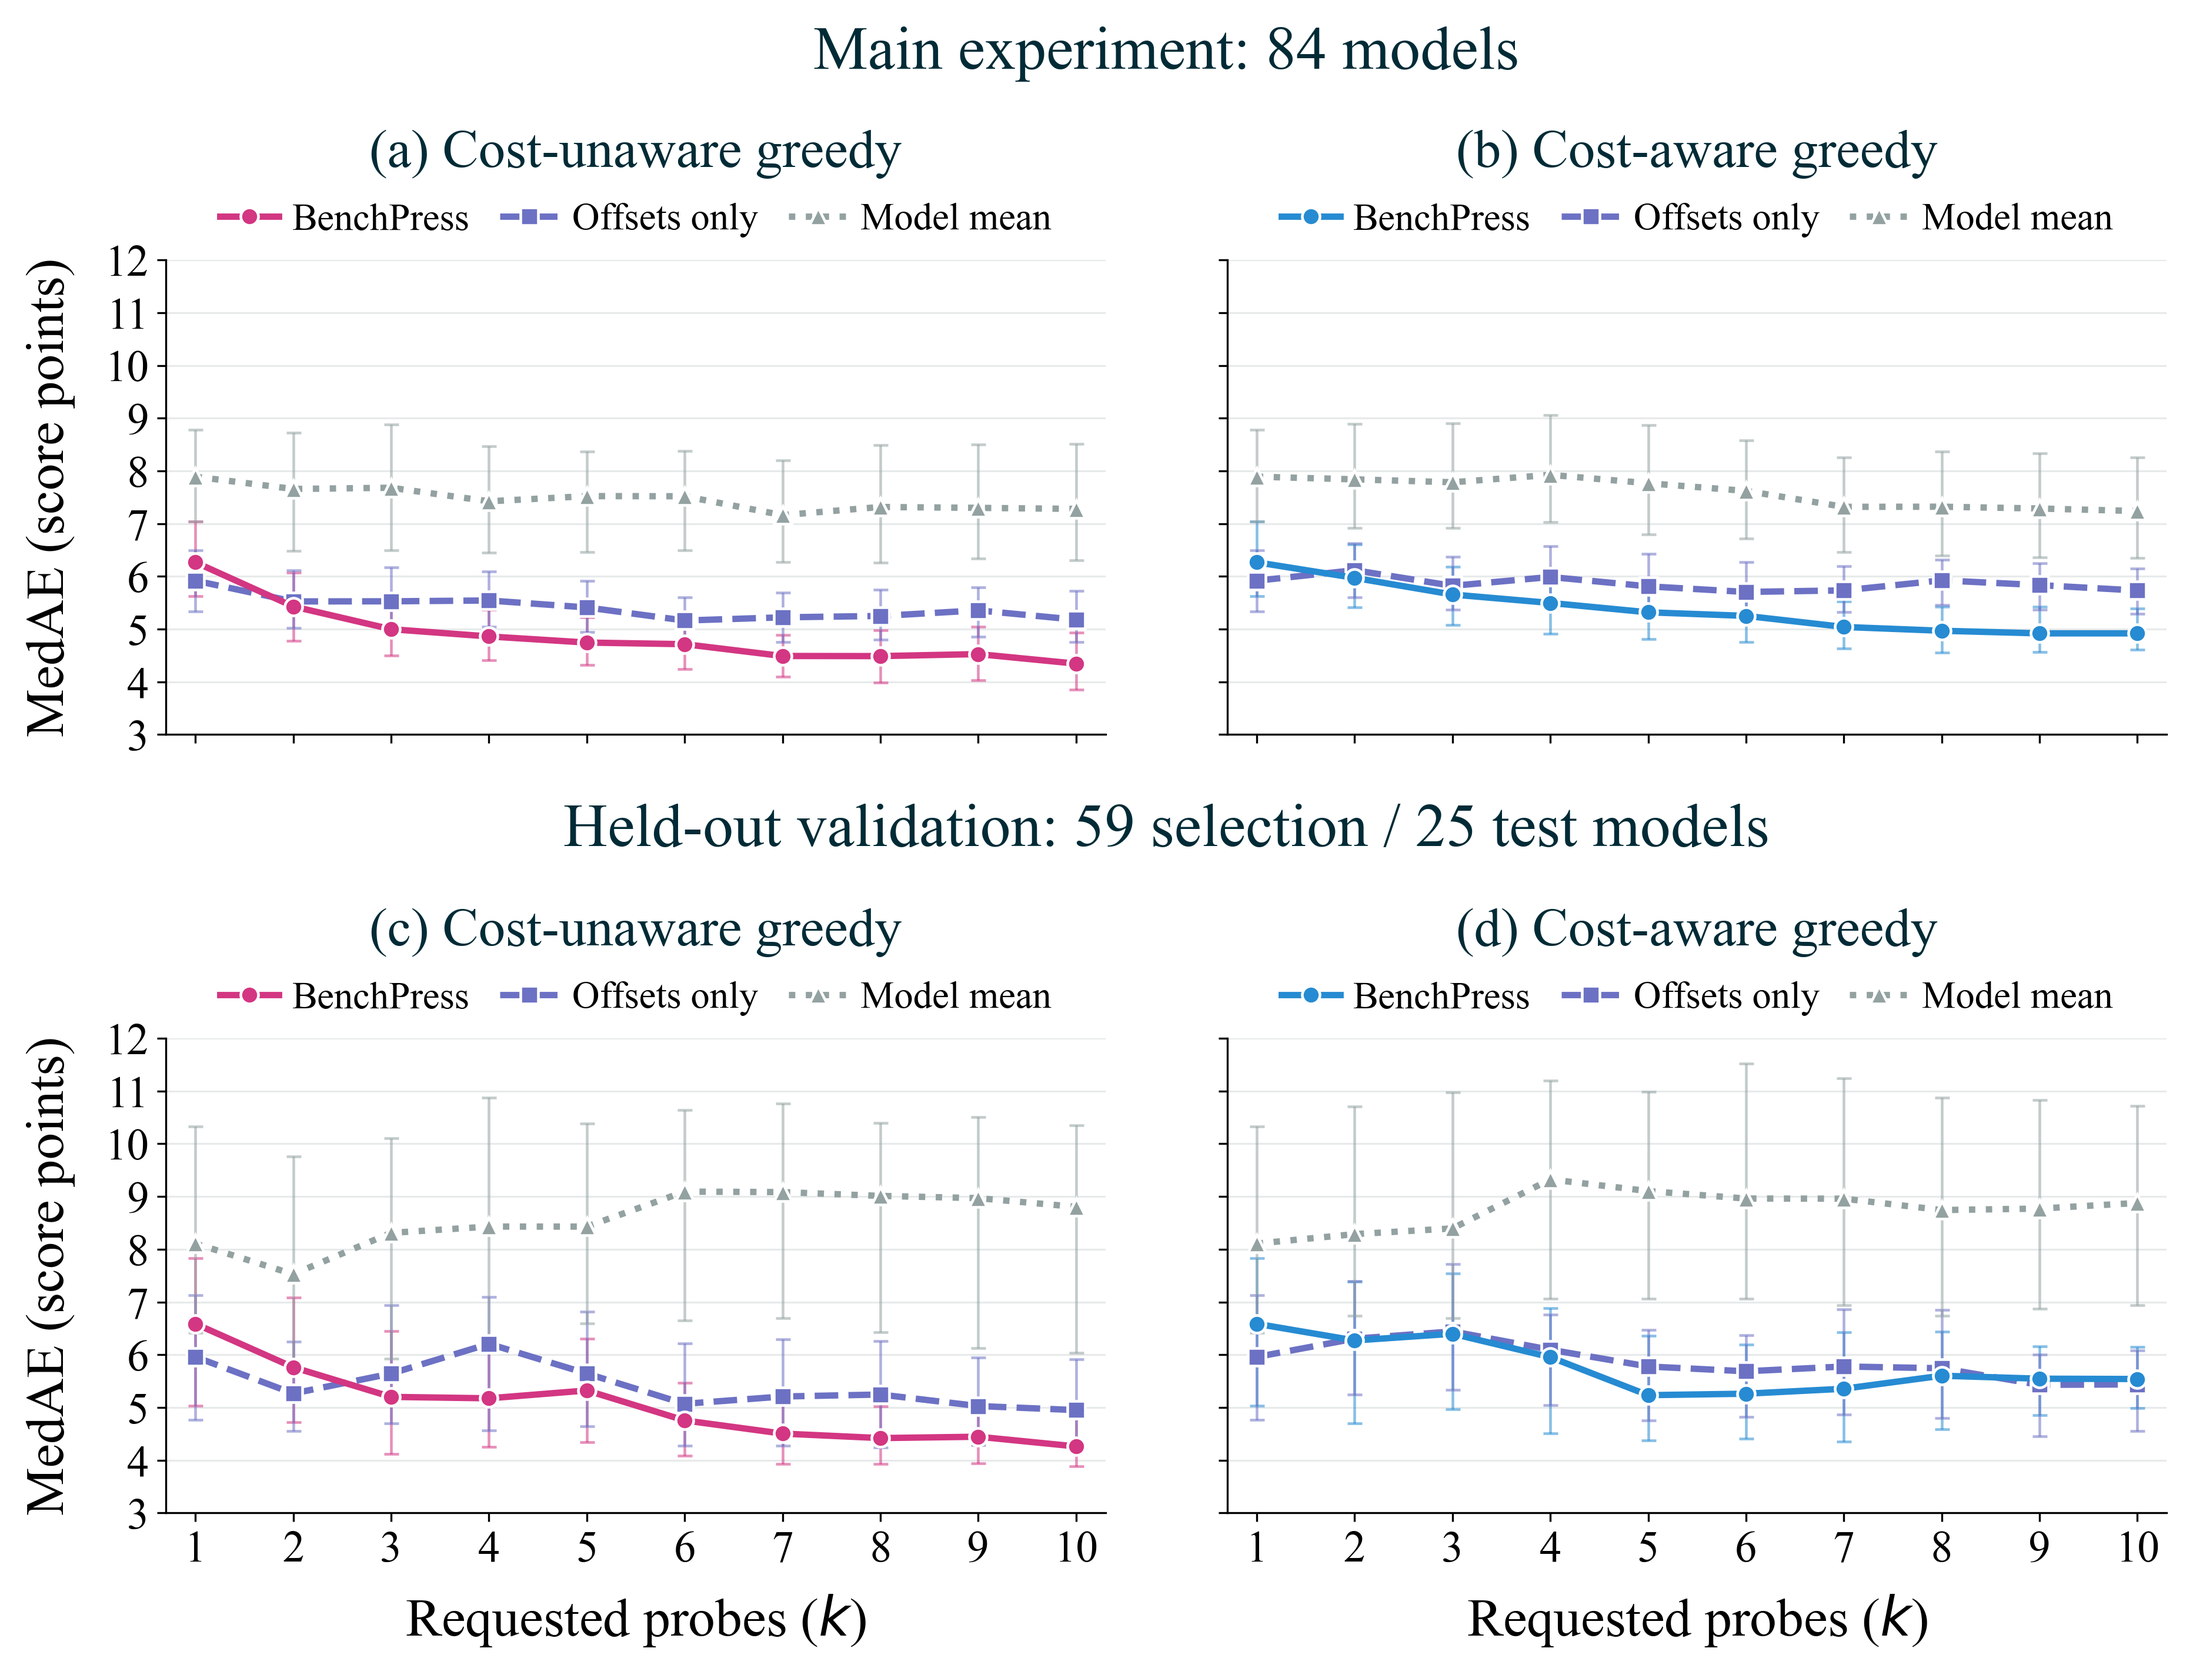
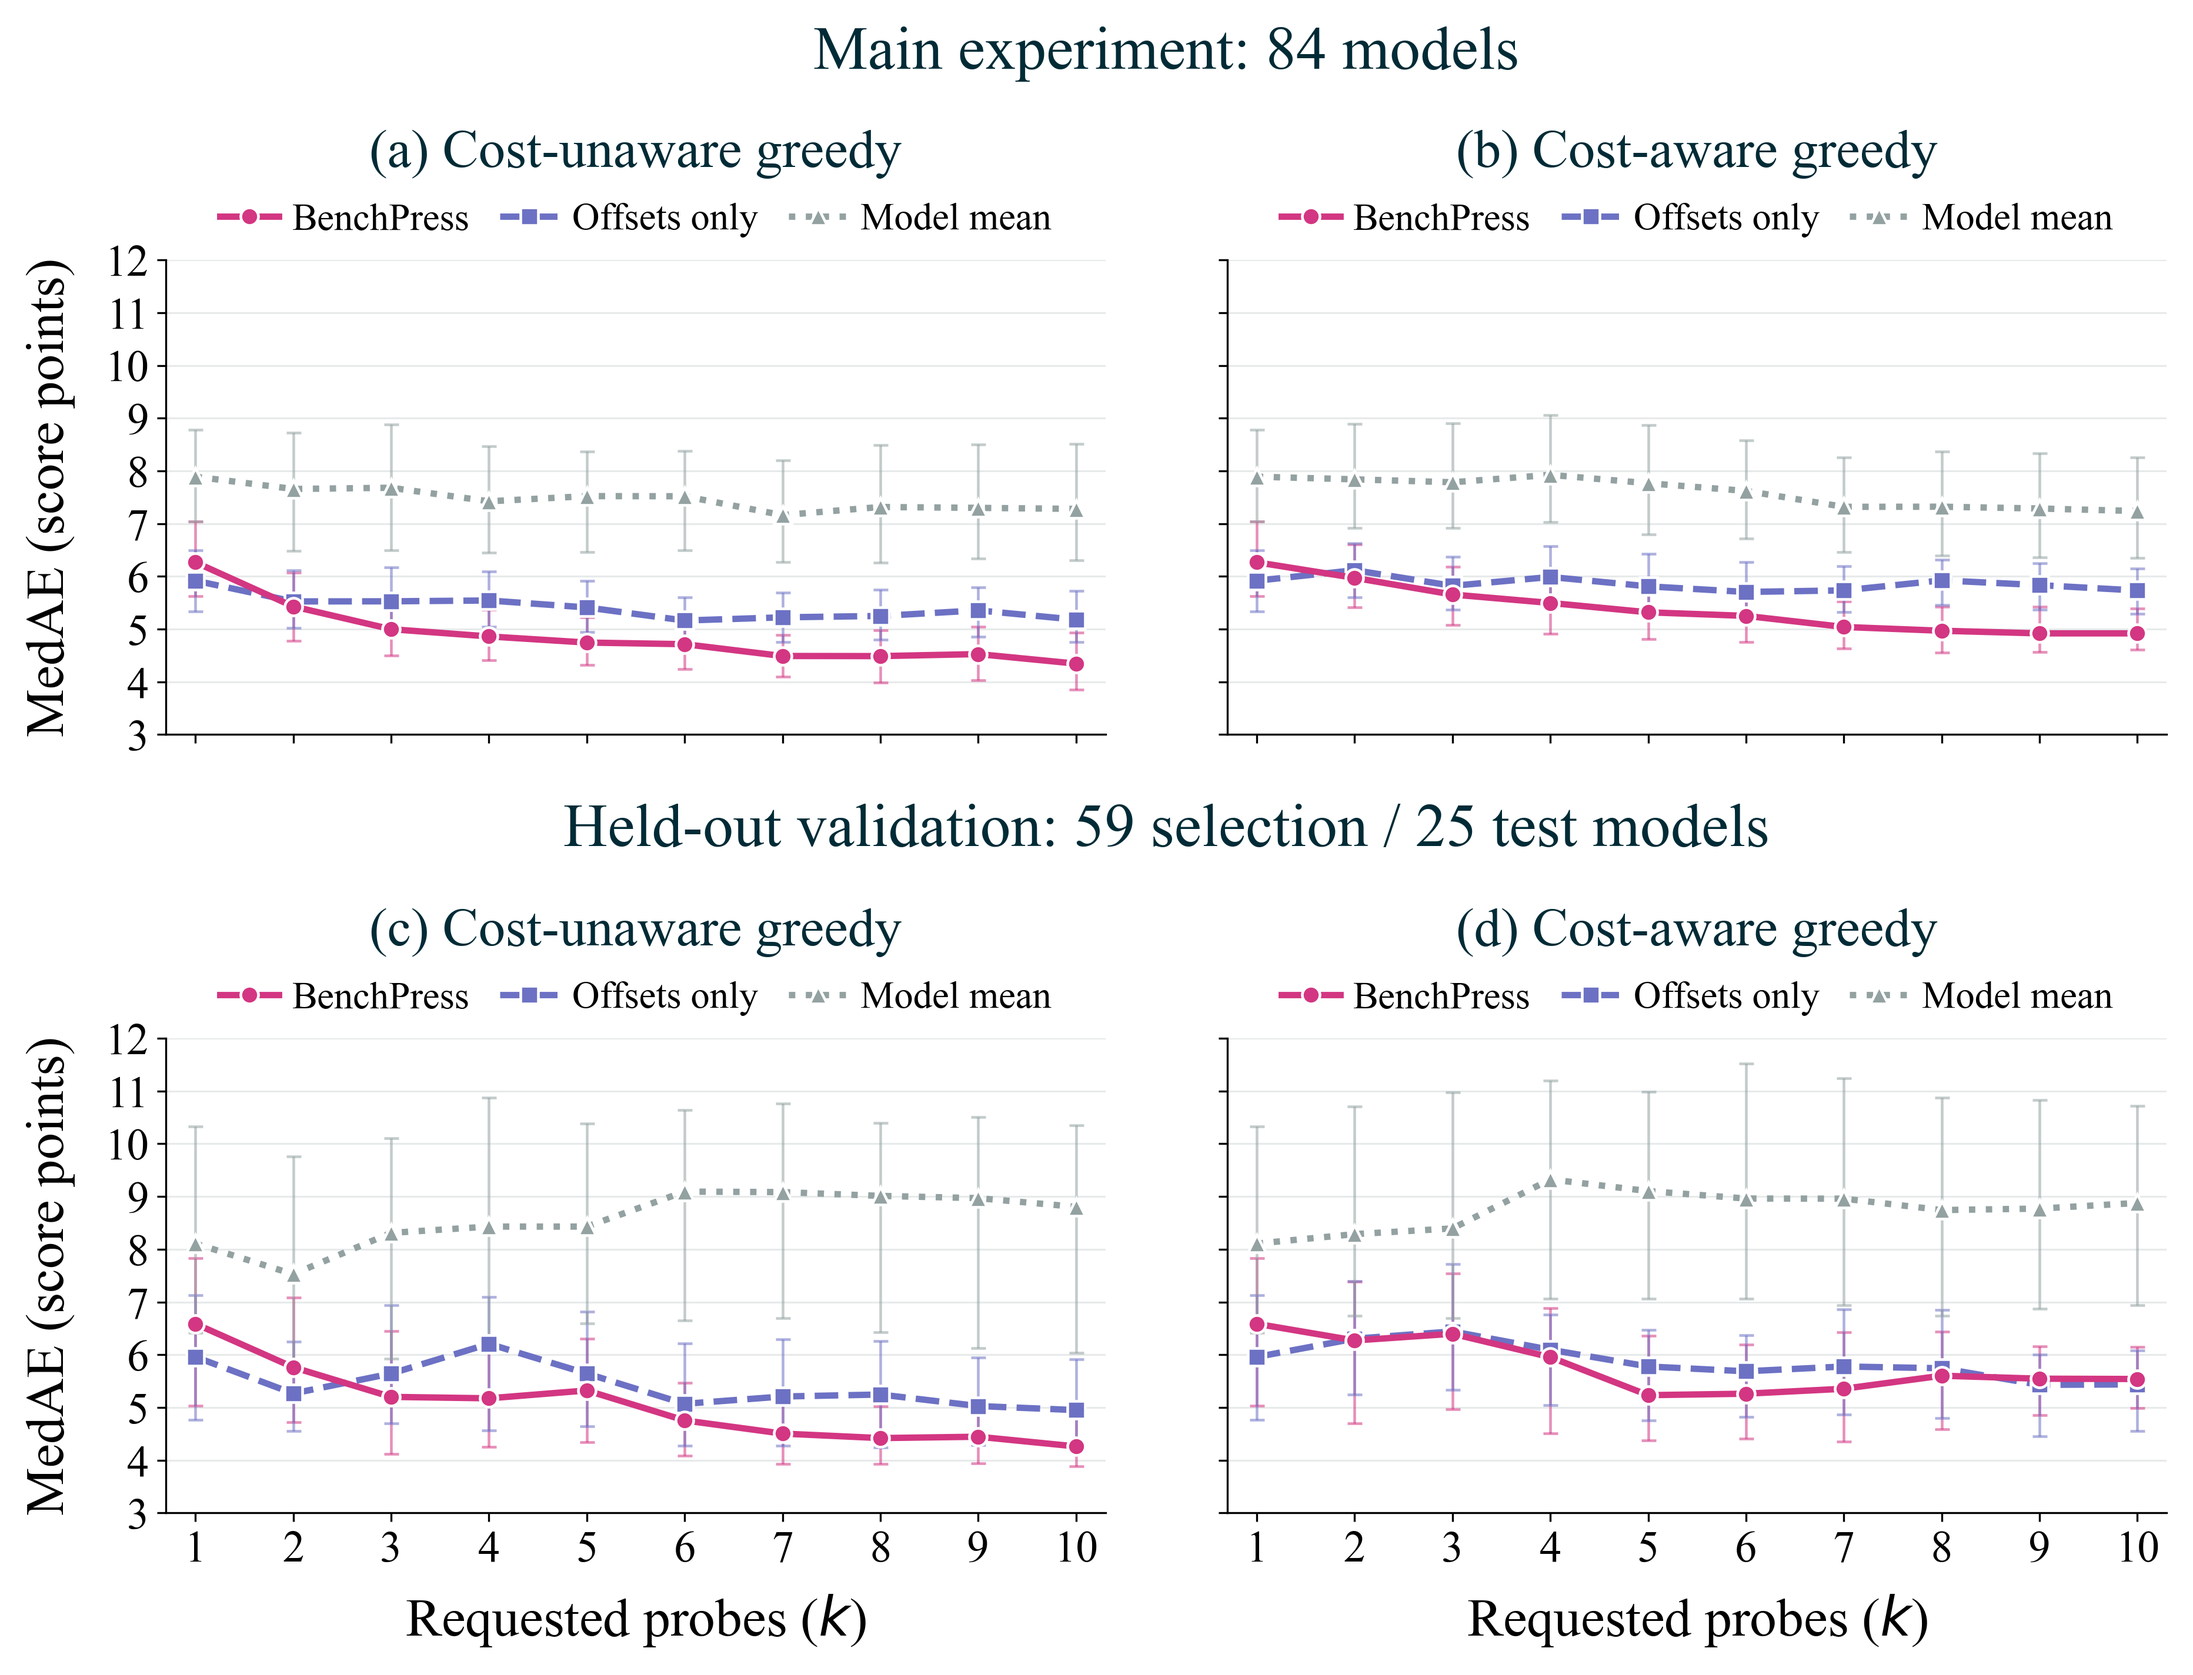
Use consistent method colors across MedAE panels

diff --git a/experiments/sec5_findings/optimal_probe/holdout/plot_settings_comparison.py b/experiments/sec5_findings/optimal_probe/holdout/plot_settings_comparison.py
@@ -12,8 +12,7 @@ if REPO_ROOT not in sys.path:
 from benchpress.io_utils import load_json, write_json_atomic
 from benchpress.stats import cluster_bootstrap_median
 from benchpress.plot_helpers.visual_identity import (
-    ANSWER_VIOLET, CHARCOAL, GRAY, PROBE_COST_AWARE_STYLE,
-    PROBE_COST_UNAWARE_STYLE, apply_single, save_fig,
+    ANSWER_VIOLET, CHARCOAL, GRAY, MEMENTO_MAGENTA, apply_single, save_fig,
 )
 import matplotlib.pyplot as plt
 from matplotlib.colors import to_rgba
@@ -25,8 +24,8 @@ STEM = 'bp_main_vs_heldout_medae'
 def main():
     names = ('benchpress', 'logit_offsets_only', 'logit_model_mean')
     panels = (
-        ('medae_any', 'cost_unaware_greedy', 'Cost-unaware greedy', PROBE_COST_UNAWARE_STYLE),
-        ('medae_low_cost', 'cost_aware_greedy', 'Cost-aware greedy', PROBE_COST_AWARE_STYLE),
+        ('medae_any', 'cost_unaware_greedy', 'Cost-unaware greedy'),
+        ('medae_low_cost', 'cost_aware_greedy', 'Cost-aware greedy'),
     )
     heldout_path = os.path.join(HERE, 'results', 'heldout_baselines_s42.json.gz')
     heldout = load_json(heldout_path)
@@ -41,7 +40,7 @@ def main():
              va='top', fontsize=25, color=CHARCOAL)
     fig.text(0.535, 0.519, 'Held-out validation: 59 selection / 25 test models',
              ha='center', va='top', fontsize=25, color=CHARCOAL)
-    for column, (main_order, heldout_order, title, style) in enumerate(panels):
+    for column, (main_order, heldout_order, title) in enumerate(panels):
         main_series = {}
         main_cells = {}
         for method, suffix in (('benchpress', ''), ('logit_offsets_only', '_rank0'),
@@ -105,7 +104,7 @@ def main():
             if [r['k'] for r in rows] != list(range(1, 11)):
                 raise ValueError('Expected all ten requested-probe budgets')
             series = [
-                ('benchpress', 'BenchPress', style['color'], '-', 'o'),
+                ('benchpress', 'BenchPress', MEMENTO_MAGENTA, '-', 'o'),
                 ('logit_offsets_only', 'Offsets only', ANSWER_VIOLET, '--', 's'),
                 ('logit_model_mean', 'Model mean', GRAY, ':', '^'),
             ]

diff --git a/experiments/sec5_findings/optimal_probe/holdout/README.md b/experiments/sec5_findings/optimal_probe/holdout/README.md
@@ -178,7 +178,9 @@ The current rebuttal uses `python plot_settings_comparison.py`:
 This is one MedAE-only 2-by-2 figure, with the main 84-model experiment on top
 and the 59/25 held-out experiment below; columns are cost-unaware and cost-aware
 greedy. Axes are identical. All four panels compare BenchPress, offsets only,
-and logit-space model mean. All 120 values match the saved source
+and logit-space model mean. Method colors are identical across panels:
+magenta for BenchPress, violet for offsets only, and gray for model mean.
+All 120 values match the saved source
 summaries, and the data companion records each source hash and test-cell count.
 Vertical error bars are pointwise 95% percentile intervals for pooled MedAE,
 computed from 2,000 whole-model bootstrap resamples with seed 42 using
